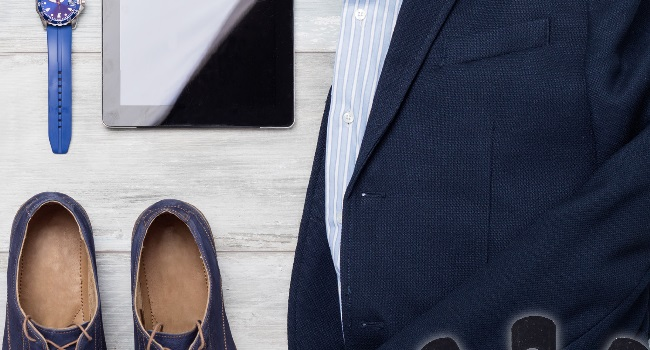
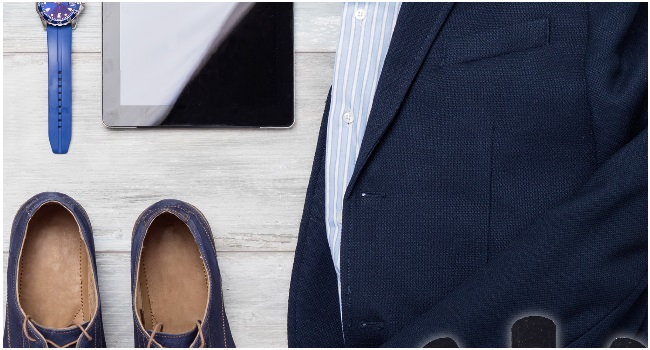
Added border to images.  Removed brand names

diff --git a/_includes/portfolio.html b/_includes/portfolio.html
@@ -3,14 +3,14 @@
         <div class="row no-gutter">
             <div class="col-lg-4 col-lg-offset-0 col-sm-4">
                 <a href="#" class="portfolio-box">
-                    <img src="img/portfolio/1.jpg" class="img-responsive" alt="Jam Tree London">
+                    <img src="img/portfolio/1.jpg" class="img-responsive" alt="Homeware">
                     <div class="portfolio-box-caption">
                         <div class="portfolio-box-caption-content">
                             <div class="project-category text-faded">
                                 Premium Home and Kitchen Products
                             </div>
                             <div class="project-name">
-                                Jam Tree London
+                                
                             </div>
                         </div>
                     </div>
@@ -18,14 +18,14 @@
             </div>
             <div class="col-lg-4 col-sm-4">
                 <a href="#" class="portfolio-box">
-                    <img src="img/portfolio/2.jpg" class="img-responsive" alt="Kiwi Grill">
+                    <img src="img/portfolio/2.jpg" class="img-responsive" alt="BBQ & Outdoor">
                     <div class="portfolio-box-caption">
                         <div class="portfolio-box-caption-content">
                             <div class="project-category text-faded">
                                 World Class Outdoor and Barbecue Accessories
                             </div>
                             <div class="project-name">
-                                Kiwi Grill
+                                
                             </div>
                         </div>
                     </div>
@@ -33,14 +33,14 @@
             </div>
             <div class="col-lg-4 col-sm-4">
                 <a href="#" class="portfolio-box">
-                    <img src="img/portfolio/3.jpg" class="img-responsive" alt="Kiwi Kids">
+                    <img src="img/portfolio/3.jpg" class="img-responsive" alt="Childrens Toys">
                     <div class="portfolio-box-caption">
                         <div class="portfolio-box-caption-content">
                             <div class="project-category text-faded">
                                 Fun, Safe, Educational Toys
                             </div>
                             <div class="project-name">
-                                Kiwi Kids
+                                
                             </div>
                         </div>
                     </div>
